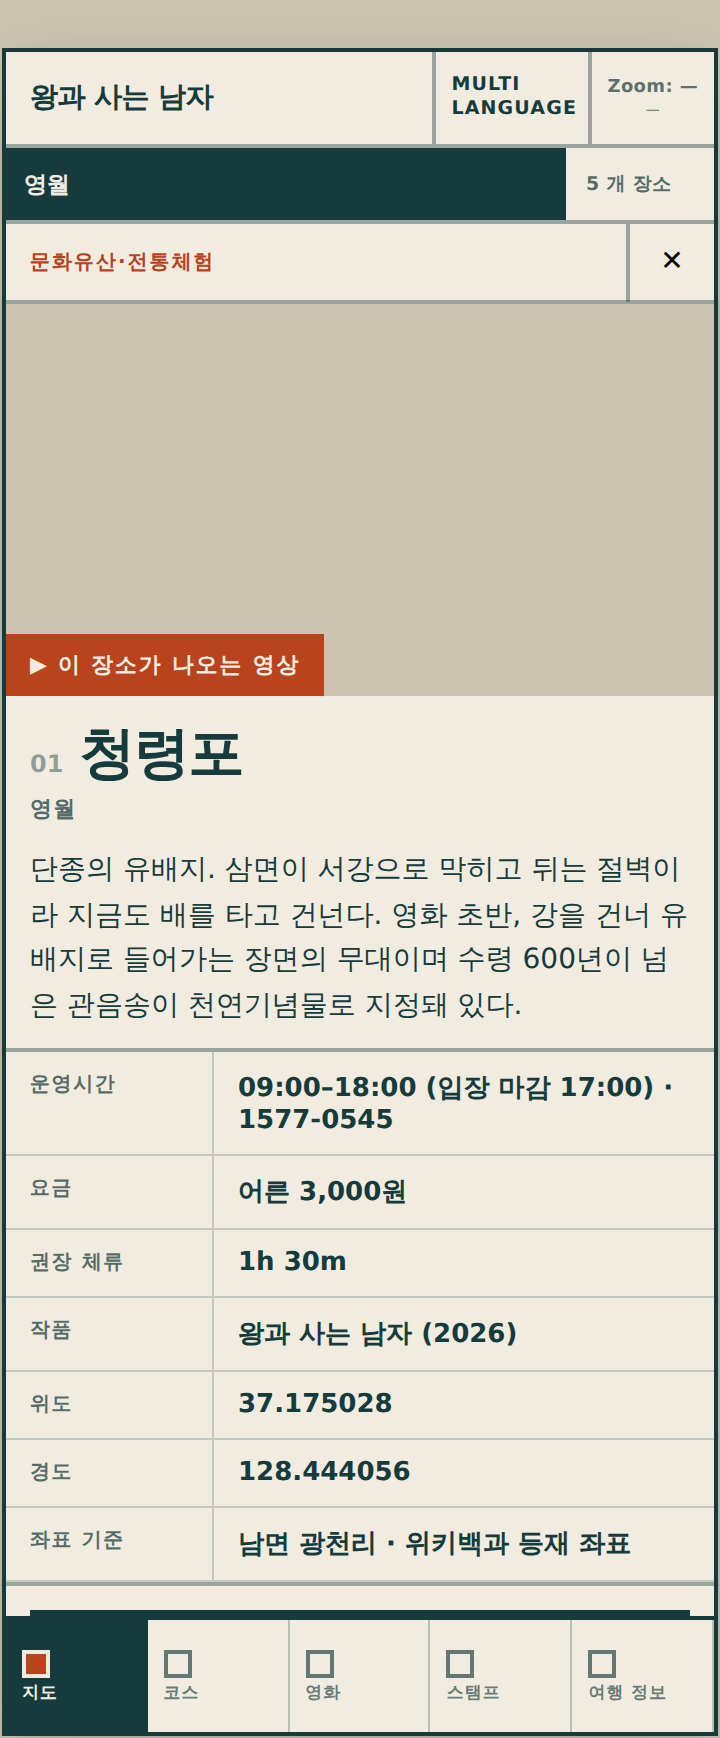
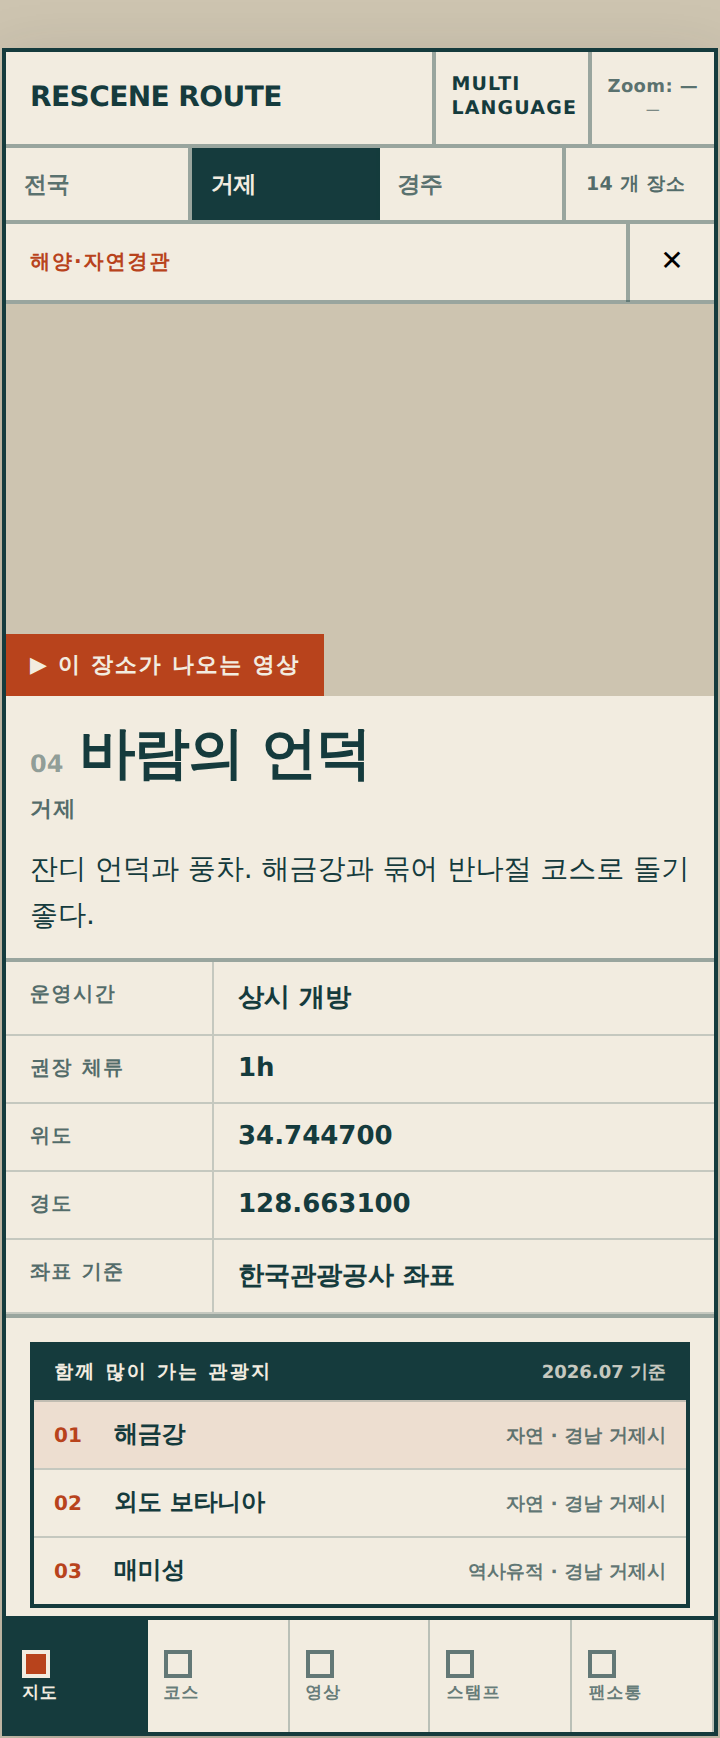
Switch the README theme captures to Geoje (RESCENE Route)
Re-capture the five theme screenshots from RESCENE Route with 거제 selected
(바람의 언덕 detail, related spots, weather/air, fan-channel events, video
archive, stamp book) and adjust captions and the video-tab description.

Claude-Session: https://claude.ai/code/session_01BBDwQ9r6aFqPRaPMDHpUkk

diff --git a/README.md b/README.md
@@ -30,15 +30,15 @@
 <tr>
 <td align="center"><img src="assets/screenshots/home-recommend.png" width="200"><br><sub>홈 · 테마 추천 (14문항)</sub></td>
 <td align="center"><img src="assets/screenshots/planner-course.png" width="200"><br><sub>플래너 · 코스 빌더 (날짜 → n박 m일, 권역별 여행지)</sub></td>
-<td align="center"><img src="assets/screenshots/theme-detail.png" width="200"><br><sub>테마 화면 · 장소 상세 (운영시간 · 요금 · 체류 · 좌표 근거)</sub></td>
+<td align="center"><img src="assets/screenshots/theme-detail.png" width="200"><br><sub>테마 화면(RESCENE Route · 거제) · 장소 상세</sub></td>
 </tr>
 <tr>
-<td align="center"><img src="assets/screenshots/theme-detail-2.png" width="200"><br><sub>장소 상세 아래쪽 · 연관 관광지 · 날씨 · 미세먼지 · 코스 추가</sub></td>
-<td align="center"><img src="assets/screenshots/theme-info.png" width="200"><br><sub>여행 정보 · 작품 카드 · 지역 행사 · 축제</sub></td>
-<td align="center"><img src="assets/screenshots/theme-film.png" width="200"><br><sub>영화 · 장면별 촬영지</sub></td>
+<td align="center"><img src="assets/screenshots/theme-detail-2.png" width="200"><br><sub>장소 상세 아래쪽 · 함께 많이 가는 관광지 · 날씨 · 미세먼지</sub></td>
+<td align="center"><img src="assets/screenshots/theme-info.png" width="200"><br><sub>팬소통 탭 · 거제 행사 · 축제</sub></td>
+<td align="center"><img src="assets/screenshots/theme-film.png" width="200"><br><sub>영상 탭 · 장면별 촬영지</sub></td>
 </tr>
 <tr>
-<td align="center"><img src="assets/screenshots/theme-stamp.png" width="200"><br><sub>스탬프 북 · 저장한 장소</sub></td>
+<td align="center"><img src="assets/screenshots/theme-stamp.png" width="200"><br><sub>스탬프 북 (거제 22곳)</sub></td>
 <td></td><td></td>
 </tr>
 </table>
@@ -110,16 +110,16 @@
 - **저장한 장소** — 장소 상세의 **저장**으로 북마크한 장소 목록. 스탬프 탭 아래쪽에 있습니다.
 - **스탬프 북** — 테마 도시의 장소마다 칸이 있고 **스탬프 찍기**는 현재 위치(HTTPS 에서만)를 확인해 찍습니다. 수집 진행률을 막대로 보여줍니다.
 
-### 영화 속 장면 (테마 화면 · 영화 탭)
+### 영화 속 장면 (테마 화면 · 영화 / 영상 탭)
 
-- 작품의 장면을 순서대로(장면순 · 역순) 나열하고, 장면마다 등장 장소와 **▶ 장면 찾아보기**(YouTube 검색)를 붙입니다. 장면 · 장소 검색이 됩니다.
+- 영화 · 드라마 테마는 작품의 장면을 순서대로(장면순 · 역순) 나열하고, 장면마다 등장 장소와 **▶ 장면 찾아보기**(YouTube 검색)를 붙입니다. RESCENE 은 로케이션 클립을 인기순 · 최신순으로 나열하고 조회수 · 게시일 · 등장 장소를 보여줍니다. 장면 · 장소 검색이 됩니다.
 - 영상 채널은 지연 로드하고, YouTube 조회수 · 게시일은 하루 1회 갱신해 캐시합니다(YouTube 키 필요).
 
 ### 여행 정보 (여행 정보 탭)
 
 - **작품 카드** — TMDB 에서 영화 · 드라마 포스터 · 개봉년 · 평점 · 줄거리를 가져옵니다(TMDB 키 필요, 7일 캐시).
 - **지역 행사 · 축제** — 도시 중심 30km 안의 한국관광공사 행사를 "이번 주 / 30일"로 나눠 거리와 함께 보여주고, 누르면 카카오맵으로 엽니다. 플래너 코스 탭에는 여행 기간에 열리는 행사가 따로 붙습니다.
-- 달력, 지역 대표 축제 안내(예: 단종문화제), 지역 관광 안내 링크. 부산 화면은 부산시 테마여행정보(도보여행 · 이색여행 241곳)를 함께 보여줍니다.
+- 달력, 지역 대표 축제 안내, 지역 관광 안내 링크. RESCENE 화면은 이 탭이 **팬소통 채널**이고 작품 카드 대신 영상 아카이브 링크가 있습니다. 부산 화면은 부산시 테마여행정보(도보여행 · 이색여행 241곳)를 함께 보여줍니다.
 
 ### 다국어
 

diff --git a/CHANGELOG.md b/CHANGELOG.md
@@ -12,7 +12,7 @@
 - 체류 시간 CSV 3종 재생성(2,711곳), I18N-TODO 줄 번호 재계산, README · DATA · APIS 갱신. 플래너는 9,496줄 · 2.0MB — 장소 데이터 분리는 ROADMAP 항목
 
 ### 문서
-- README 를 기능 상세 중심으로 다시 씀 — 홈 · 지도와 목록 · 장소 상세 · 코스 빌더 · 교통 · 숙박 · 내 플랜/저장/스탬프 · 영화 속 장면 · 여행 정보 · 다국어 · 키 없이 실행 11개 절. 캡처 7장 추가(`assets/screenshots/`: 테마 추천, 코스 빌더, 장소 상세 2장, 여행 정보, 영화, 스탬프 북) — 헤드리스 브라우저 + 예시 API 응답으로 찍음
+- README 를 기능 상세 중심으로 다시 씀 — 홈 · 지도와 목록 · 장소 상세 · 코스 빌더 · 교통 · 숙박 · 내 플랜/저장/스탬프 · 영화 속 장면 · 여행 정보 · 다국어 · 키 없이 실행 11개 절. 캡처 7장 추가(`assets/screenshots/`: 테마 추천, 코스 빌더, 거제 장소 상세 2장, 팬소통 탭 행사, 영상, 스탬프 북 — 테마 예시는 RESCENE Route · 거제) — 헤드리스 브라우저 + 예시 API 응답으로 찍음
 - `시스템 구성도/` 를 09-27 통합본 기준으로 다시 그림 — 공공데이터포털 상자에 TAGO · 공항 소요시간 · 부산시 · 부산교통공사 · 관광지 집중률, Kakao 상자에 모빌리티 길찾기, 키 없는 서비스에 서울 지하철 실시간 도착, 처리 흐름에 지하철 호선·역 · 실측 이동 · 도시별 행사. 명세서 v1.1 (외부 인터페이스 9행 추가, 화면 줄 수 · 제약 · 향후 계획 갱신)
 - `체류시간 산정/체류시간_산정_로직_설명.docx` 를 2,711곳 CSV 로 재생성
 - 저장소 문서 전반 정리 — APIS 의 한국도로공사 용도(휴게소) · 한국공항공사 상태(`KAC_ENDPOINT` 미설정) 정정, CORS 절을 실제 차단 항목으로 고침, DATA 에 `tour-places.csv` 1,197곳과 플래너 2,711곳 구분 · 관광특구 배지 기준, ARCHITECTURE 코스 계산 흐름에 실측 이동 · 시각표, CONTRIBUTING 에 `TMDB_KEY` 와 내보내기 후 절차, CLEANUP 기간 · 복제 수 갱신
